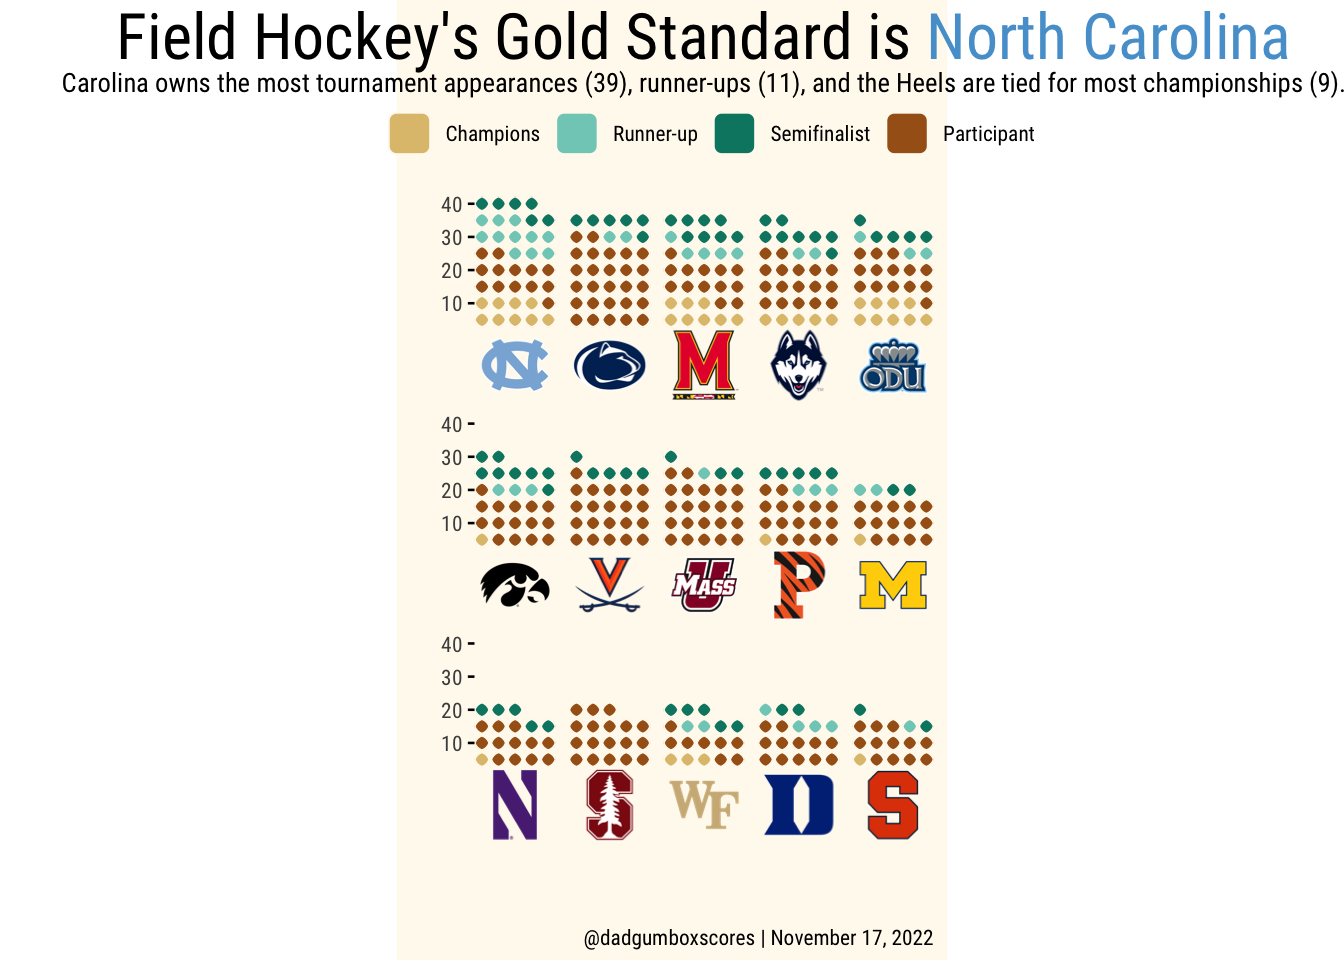
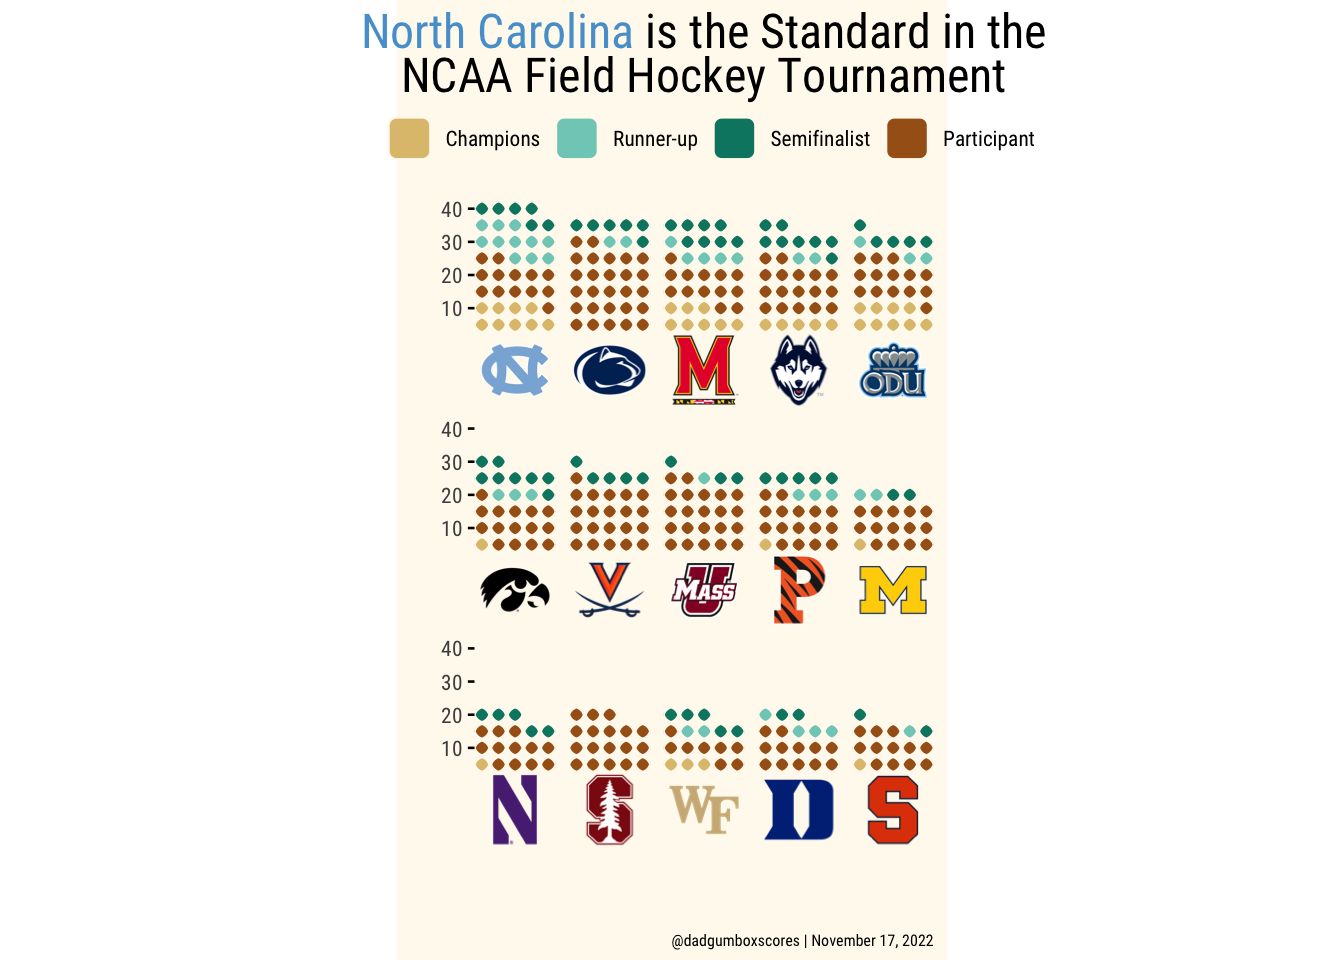
byc-updates

diff --git a/byc_002/byc-002_fh_standard.html b/byc_002/byc-002_fh_standard.html
@@ -190,25 +190,26 @@ dbl  (1): App
 <span id="cb5-4"><a href="#cb5-4" aria-hidden="true" tabindex="-1"></a>    <span class="fu">theme</span> (</span>
 <span id="cb5-5"><a href="#cb5-5" aria-hidden="true" tabindex="-1"></a>      <span class="at">plot.title =</span> <span class="fu">element_text</span>(</span>
 <span id="cb5-6"><a href="#cb5-6" aria-hidden="true" tabindex="-1"></a>        <span class="at">hjust =</span> <span class="fl">0.5</span>,</span>
-<span id="cb5-7"><a href="#cb5-7" aria-hidden="true" tabindex="-1"></a>        <span class="at">size =</span> <span class="dv">24</span>,</span>
-<span id="cb5-8"><a href="#cb5-8" aria-hidden="true" tabindex="-1"></a>        <span class="at">face =</span> <span class="st">"bold"</span></span>
-<span id="cb5-9"><a href="#cb5-9" aria-hidden="true" tabindex="-1"></a>      ),</span>
-<span id="cb5-10"><a href="#cb5-10" aria-hidden="true" tabindex="-1"></a>      <span class="at">plot.subtitle =</span> <span class="fu">element_text</span>(</span>
-<span id="cb5-11"><a href="#cb5-11" aria-hidden="true" tabindex="-1"></a>        <span class="at">hjust =</span> <span class="fl">0.5</span>,</span>
-<span id="cb5-12"><a href="#cb5-12" aria-hidden="true" tabindex="-1"></a>        <span class="at">size =</span> <span class="dv">10</span>,</span>
-<span id="cb5-13"><a href="#cb5-13" aria-hidden="true" tabindex="-1"></a>        <span class="at">lineheight =</span> <span class="fl">0.25</span>,</span>
-<span id="cb5-14"><a href="#cb5-14" aria-hidden="true" tabindex="-1"></a>        <span class="at">vjust =</span> <span class="sc">-</span><span class="fl">0.5</span></span>
-<span id="cb5-15"><a href="#cb5-15" aria-hidden="true" tabindex="-1"></a>      ),</span>
-<span id="cb5-16"><a href="#cb5-16" aria-hidden="true" tabindex="-1"></a>      <span class="at">plot.caption =</span> <span class="fu">element_text</span>(</span>
-<span id="cb5-17"><a href="#cb5-17" aria-hidden="true" tabindex="-1"></a>        <span class="at">hjust =</span> <span class="dv">1</span>,</span>
-<span id="cb5-18"><a href="#cb5-18" aria-hidden="true" tabindex="-1"></a>        <span class="at">size =</span> <span class="dv">8</span>,</span>
-<span id="cb5-19"><a href="#cb5-19" aria-hidden="true" tabindex="-1"></a>        <span class="at">lineheight =</span> <span class="fl">0.35</span>,</span>
-<span id="cb5-20"><a href="#cb5-20" aria-hidden="true" tabindex="-1"></a>        <span class="at">margin =</span> <span class="fu">margin</span>(<span class="at">t =</span> <span class="dv">20</span>)</span>
-<span id="cb5-21"><a href="#cb5-21" aria-hidden="true" tabindex="-1"></a>      ),</span>
-<span id="cb5-22"><a href="#cb5-22" aria-hidden="true" tabindex="-1"></a>      <span class="at">panel.grid.minor =</span> <span class="fu">element_blank</span>(),</span>
-<span id="cb5-23"><a href="#cb5-23" aria-hidden="true" tabindex="-1"></a>      <span class="at">plot.background =</span> <span class="fu">element_rect</span>(<span class="at">fill =</span> <span class="st">"floral white"</span>, <span class="at">color =</span> <span class="st">"floral white"</span>)</span>
-<span id="cb5-24"><a href="#cb5-24" aria-hidden="true" tabindex="-1"></a>    )</span>
-<span id="cb5-25"><a href="#cb5-25" aria-hidden="true" tabindex="-1"></a>}</span></code><button title="Copy to Clipboard" class="code-copy-button"><i class="bi"></i></button></pre></div>
+<span id="cb5-7"><a href="#cb5-7" aria-hidden="true" tabindex="-1"></a>        <span class="at">size =</span> <span class="dv">18</span>,</span>
+<span id="cb5-8"><a href="#cb5-8" aria-hidden="true" tabindex="-1"></a>        <span class="at">face =</span> <span class="st">"bold"</span>,</span>
+<span id="cb5-9"><a href="#cb5-9" aria-hidden="true" tabindex="-1"></a>        <span class="at">lineheight =</span> <span class="fl">0.75</span>,</span>
+<span id="cb5-10"><a href="#cb5-10" aria-hidden="true" tabindex="-1"></a>      ),</span>
+<span id="cb5-11"><a href="#cb5-11" aria-hidden="true" tabindex="-1"></a>      <span class="at">plot.subtitle =</span> <span class="fu">element_text</span>(</span>
+<span id="cb5-12"><a href="#cb5-12" aria-hidden="true" tabindex="-1"></a>        <span class="at">hjust =</span> <span class="fl">0.5</span>,</span>
+<span id="cb5-13"><a href="#cb5-13" aria-hidden="true" tabindex="-1"></a>        <span class="at">size =</span> <span class="dv">10</span>,</span>
+<span id="cb5-14"><a href="#cb5-14" aria-hidden="true" tabindex="-1"></a>        <span class="at">lineheight =</span> <span class="fl">0.25</span>,</span>
+<span id="cb5-15"><a href="#cb5-15" aria-hidden="true" tabindex="-1"></a>        <span class="at">vjust =</span> <span class="sc">-</span><span class="dv">3</span>,</span>
+<span id="cb5-16"><a href="#cb5-16" aria-hidden="true" tabindex="-1"></a>      ),</span>
+<span id="cb5-17"><a href="#cb5-17" aria-hidden="true" tabindex="-1"></a>      <span class="at">plot.caption =</span> <span class="fu">element_text</span>(</span>
+<span id="cb5-18"><a href="#cb5-18" aria-hidden="true" tabindex="-1"></a>        <span class="at">hjust =</span> <span class="dv">1</span>,</span>
+<span id="cb5-19"><a href="#cb5-19" aria-hidden="true" tabindex="-1"></a>        <span class="at">size =</span> <span class="dv">6</span>,</span>
+<span id="cb5-20"><a href="#cb5-20" aria-hidden="true" tabindex="-1"></a>        <span class="at">lineheight =</span> <span class="fl">0.35</span>,</span>
+<span id="cb5-21"><a href="#cb5-21" aria-hidden="true" tabindex="-1"></a>        <span class="at">margin =</span> <span class="fu">margin</span>(<span class="at">t =</span> <span class="dv">20</span>)</span>
+<span id="cb5-22"><a href="#cb5-22" aria-hidden="true" tabindex="-1"></a>      ),</span>
+<span id="cb5-23"><a href="#cb5-23" aria-hidden="true" tabindex="-1"></a>      <span class="at">panel.grid.minor =</span> <span class="fu">element_blank</span>(),</span>
+<span id="cb5-24"><a href="#cb5-24" aria-hidden="true" tabindex="-1"></a>      <span class="at">plot.background =</span> <span class="fu">element_rect</span>(<span class="at">fill =</span> <span class="st">"floral white"</span>, <span class="at">color =</span> <span class="st">"floral white"</span>)</span>
+<span id="cb5-25"><a href="#cb5-25" aria-hidden="true" tabindex="-1"></a>    )</span>
+<span id="cb5-26"><a href="#cb5-26" aria-hidden="true" tabindex="-1"></a>}</span></code><button title="Copy to Clipboard" class="code-copy-button"><i class="bi"></i></button></pre></div>
 </details>
 </div>
 </section>
@@ -220,47 +221,46 @@ dbl  (1): App
 <div class="sourceCode cell-code" id="cb6"><pre class="sourceCode r code-with-copy"><code class="sourceCode r"><span id="cb6-1"><a href="#cb6-1" aria-hidden="true" tabindex="-1"></a><span class="co"># make the plot</span></span>
 <span id="cb6-2"><a href="#cb6-2" aria-hidden="true" tabindex="-1"></a>fh_plot <span class="ot">&lt;-</span> final_counts <span class="sc">%&gt;%</span> </span>
 <span id="cb6-3"><a href="#cb6-3" aria-hidden="true" tabindex="-1"></a>    <span class="fu">ggplot</span>(<span class="fu">aes</span>(<span class="at">fill=</span>finish, <span class="at">values=</span>n)) <span class="sc">+</span> </span>
-<span id="cb6-4"><a href="#cb6-4" aria-hidden="true" tabindex="-1"></a>    <span class="fu">geom_waffle</span>(<span class="at">color =</span> <span class="st">"floral white"</span>, <span class="at">size=</span>.<span class="dv">25</span>, <span class="at">n_rows =</span> <span class="dv">5</span>, <span class="at">flip =</span> <span class="cn">TRUE</span>, <span class="at">use_glyph =</span> <span class="st">"trophy"</span>,</span>
-<span id="cb6-5"><a href="#cb6-5" aria-hidden="true" tabindex="-1"></a>                <span class="at">radius =</span> <span class="fu">unit</span>(<span class="dv">4</span>, <span class="st">"pt"</span>),</span>
-<span id="cb6-6"><a href="#cb6-6" aria-hidden="true" tabindex="-1"></a>                <span class="at">height =</span> <span class="fl">0.9</span>, <span class="at">width =</span> <span class="fl">0.9</span>) <span class="sc">+</span></span>
-<span id="cb6-7"><a href="#cb6-7" aria-hidden="true" tabindex="-1"></a>    <span class="fu">facet_wrap</span>(<span class="sc">~</span>Schools, <span class="at">nrow=</span><span class="dv">3</span>, <span class="at">strip.position =</span> <span class="st">"bottom"</span>) <span class="sc">+</span></span>
-<span id="cb6-8"><a href="#cb6-8" aria-hidden="true" tabindex="-1"></a>    <span class="fu">scale_x_discrete</span>(<span class="at">expand=</span><span class="fu">c</span>(<span class="dv">0</span>,<span class="dv">0</span>)) <span class="sc">+</span></span>
-<span id="cb6-9"><a href="#cb6-9" aria-hidden="true" tabindex="-1"></a>    <span class="fu">scale_y_continuous</span>(<span class="at">labels =</span> <span class="fu">c</span>(<span class="dv">0</span>, <span class="dv">10</span>, <span class="dv">20</span>, <span class="dv">30</span>, <span class="dv">40</span>),</span>
-<span id="cb6-10"><a href="#cb6-10" aria-hidden="true" tabindex="-1"></a>                       <span class="at">expand =</span> <span class="fu">c</span>(<span class="dv">0</span>,<span class="dv">0</span>)) <span class="sc">+</span></span>
-<span id="cb6-11"><a href="#cb6-11" aria-hidden="true" tabindex="-1"></a>    <span class="fu">scale_fill_manual</span>(<span class="st">""</span>,</span>
-<span id="cb6-12"><a href="#cb6-12" aria-hidden="true" tabindex="-1"></a>                      <span class="at">values=</span><span class="fu">c</span>(<span class="st">'Champions'</span><span class="ot">=</span><span class="st">'#dfc27d'</span>,<span class="st">'Runner-up'</span><span class="ot">=</span><span class="st">'#80cdc1'</span>,<span class="st">'Semifinalist'</span><span class="ot">=</span><span class="st">'#018571'</span>,<span class="st">'Participant'</span><span class="ot">=</span><span class="st">'#a6611a'</span>),</span>
-<span id="cb6-13"><a href="#cb6-13" aria-hidden="true" tabindex="-1"></a>                      <span class="at">breaks=</span><span class="fu">c</span>(<span class="st">"Champions"</span>, <span class="st">"Runner-up"</span>, <span class="st">"Semifinalist"</span>, <span class="st">"Participant"</span>),</span>
-<span id="cb6-14"><a href="#cb6-14" aria-hidden="true" tabindex="-1"></a>                      <span class="at">labels=</span><span class="fu">c</span>(<span class="st">"Champions"</span>, <span class="st">"Runner-up"</span>, <span class="st">"Semifinalist"</span>, <span class="st">"Participant"</span>)) <span class="sc">+</span></span>
-<span id="cb6-15"><a href="#cb6-15" aria-hidden="true" tabindex="-1"></a>    <span class="fu">coord_equal</span>() <span class="sc">+</span></span>
-<span id="cb6-16"><a href="#cb6-16" aria-hidden="true" tabindex="-1"></a>    <span class="fu">labs</span>(</span>
-<span id="cb6-17"><a href="#cb6-17" aria-hidden="true" tabindex="-1"></a>        <span class="at">title =</span> <span class="st">"Field Hockey's Gold Standard is &lt;span style='color:#56a0d3;'&gt;North Carolina&lt;/span&gt;"</span>,</span>
-<span id="cb6-18"><a href="#cb6-18" aria-hidden="true" tabindex="-1"></a>        <span class="at">subtitle =</span> <span class="st">"Carolina owns the most tournament appearances (39), runner-ups (11)&lt;/span&gt;, and the Heels are tied for most championships (9)."</span>,</span>
-<span id="cb6-19"><a href="#cb6-19" aria-hidden="true" tabindex="-1"></a>        <span class="at">x =</span> <span class="st">""</span>,</span>
-<span id="cb6-20"><a href="#cb6-20" aria-hidden="true" tabindex="-1"></a>        <span class="at">y =</span> <span class="st">""</span>,</span>
-<span id="cb6-21"><a href="#cb6-21" aria-hidden="true" tabindex="-1"></a>        <span class="at">caption =</span> <span class="st">"@dadgumboxscores | November 17, 2022"</span></span>
-<span id="cb6-22"><a href="#cb6-22" aria-hidden="true" tabindex="-1"></a>    ) <span class="sc">+</span></span>
-<span id="cb6-23"><a href="#cb6-23" aria-hidden="true" tabindex="-1"></a>    <span class="fu">theme_me</span>() <span class="sc">+</span></span>
-<span id="cb6-24"><a href="#cb6-24" aria-hidden="true" tabindex="-1"></a>    <span class="fu">theme</span>(<span class="at">panel.grid =</span> <span class="fu">element_blank</span>(),</span>
-<span id="cb6-25"><a href="#cb6-25" aria-hidden="true" tabindex="-1"></a>          <span class="at">axis.ticks.y =</span> <span class="fu">element_line</span>()) <span class="sc">+</span></span>
-<span id="cb6-26"><a href="#cb6-26" aria-hidden="true" tabindex="-1"></a>    <span class="fu">guides</span>(<span class="at">fill =</span> <span class="fu">guide_legend</span>()) <span class="sc">+</span></span>
-<span id="cb6-27"><a href="#cb6-27" aria-hidden="true" tabindex="-1"></a>    <span class="fu">theme</span>(<span class="at">legend.position =</span> <span class="st">"top"</span>, <span class="at">strip.text =</span> <span class="fu">element_cfb_logo</span>(<span class="at">size =</span> <span class="dv">1</span>), <span class="at">plot.title =</span> <span class="fu">element_markdown</span>(), <span class="at">plot.subtitle =</span> <span class="fu">element_markdown</span>())</span>
-<span id="cb6-28"><a href="#cb6-28" aria-hidden="true" tabindex="-1"></a></span>
-<span id="cb6-29"><a href="#cb6-29" aria-hidden="true" tabindex="-1"></a><span class="co"># save image of plot</span></span>
-<span id="cb6-30"><a href="#cb6-30" aria-hidden="true" tabindex="-1"></a>  <span class="fu">ggsave</span>(</span>
-<span id="cb6-31"><a href="#cb6-31" aria-hidden="true" tabindex="-1"></a>  <span class="st">"fh.png"</span>,</span>
-<span id="cb6-32"><a href="#cb6-32" aria-hidden="true" tabindex="-1"></a>  fh_plot,</span>
-<span id="cb6-33"><a href="#cb6-33" aria-hidden="true" tabindex="-1"></a>  <span class="at">w =</span> <span class="fl">9.5</span>,</span>
-<span id="cb6-34"><a href="#cb6-34" aria-hidden="true" tabindex="-1"></a>  <span class="at">h =</span> <span class="fl">9.5</span>,</span>
-<span id="cb6-35"><a href="#cb6-35" aria-hidden="true" tabindex="-1"></a>  <span class="at">dpi =</span> <span class="dv">300</span>,</span>
-<span id="cb6-36"><a href="#cb6-36" aria-hidden="true" tabindex="-1"></a>  <span class="at">type =</span> <span class="st">'cairo'</span></span>
-<span id="cb6-37"><a href="#cb6-37" aria-hidden="true" tabindex="-1"></a>)</span>
-<span id="cb6-38"><a href="#cb6-38" aria-hidden="true" tabindex="-1"></a>  </span>
-<span id="cb6-39"><a href="#cb6-39" aria-hidden="true" tabindex="-1"></a>fh_plot</span></code><button title="Copy to Clipboard" class="code-copy-button"><i class="bi"></i></button></pre></div>
+<span id="cb6-4"><a href="#cb6-4" aria-hidden="true" tabindex="-1"></a>    <span class="fu">geom_waffle</span>(<span class="at">color =</span> <span class="st">"floral white"</span>, <span class="at">size=</span>.<span class="dv">25</span>, <span class="at">n_rows =</span> <span class="dv">5</span>, <span class="at">flip =</span> <span class="cn">TRUE</span>,  <span class="at">radius =</span> <span class="fu">unit</span>(<span class="dv">4</span>, <span class="st">"pt"</span>), <span class="at">height =</span> <span class="fl">0.9</span>, <span class="at">width =</span> <span class="fl">0.9</span>) <span class="sc">+</span></span>
+<span id="cb6-5"><a href="#cb6-5" aria-hidden="true" tabindex="-1"></a>    <span class="fu">facet_wrap</span>(<span class="sc">~</span>Schools, <span class="at">nrow=</span><span class="dv">3</span>, <span class="at">strip.position =</span> <span class="st">"bottom"</span>) <span class="sc">+</span></span>
+<span id="cb6-6"><a href="#cb6-6" aria-hidden="true" tabindex="-1"></a>    <span class="fu">scale_x_discrete</span>(<span class="at">expand=</span><span class="fu">c</span>(<span class="dv">0</span>,<span class="dv">0</span>)) <span class="sc">+</span></span>
+<span id="cb6-7"><a href="#cb6-7" aria-hidden="true" tabindex="-1"></a>    <span class="fu">scale_y_continuous</span>(<span class="at">labels =</span> <span class="fu">c</span>(<span class="dv">0</span>, <span class="dv">10</span>, <span class="dv">20</span>, <span class="dv">30</span>, <span class="dv">40</span>),</span>
+<span id="cb6-8"><a href="#cb6-8" aria-hidden="true" tabindex="-1"></a>                       <span class="at">expand =</span> <span class="fu">c</span>(<span class="dv">0</span>,<span class="dv">0</span>)) <span class="sc">+</span></span>
+<span id="cb6-9"><a href="#cb6-9" aria-hidden="true" tabindex="-1"></a>    <span class="fu">scale_fill_manual</span>(<span class="st">""</span>,</span>
+<span id="cb6-10"><a href="#cb6-10" aria-hidden="true" tabindex="-1"></a>                      <span class="at">values=</span><span class="fu">c</span>(<span class="st">'Champions'</span><span class="ot">=</span><span class="st">'#dfc27d'</span>,<span class="st">'Runner-up'</span><span class="ot">=</span><span class="st">'#80cdc1'</span>,<span class="st">'Semifinalist'</span><span class="ot">=</span><span class="st">'#018571'</span>,<span class="st">'Participant'</span><span class="ot">=</span><span class="st">'#a6611a'</span>),</span>
+<span id="cb6-11"><a href="#cb6-11" aria-hidden="true" tabindex="-1"></a>                      <span class="at">breaks=</span><span class="fu">c</span>(<span class="st">"Champions"</span>, <span class="st">"Runner-up"</span>, <span class="st">"Semifinalist"</span>, <span class="st">"Participant"</span>),</span>
+<span id="cb6-12"><a href="#cb6-12" aria-hidden="true" tabindex="-1"></a>                      <span class="at">labels=</span><span class="fu">c</span>(<span class="st">"Champions"</span>, <span class="st">"Runner-up"</span>, <span class="st">"Semifinalist"</span>, <span class="st">"Participant"</span>)) <span class="sc">+</span></span>
+<span id="cb6-13"><a href="#cb6-13" aria-hidden="true" tabindex="-1"></a>    <span class="fu">coord_equal</span>() <span class="sc">+</span></span>
+<span id="cb6-14"><a href="#cb6-14" aria-hidden="true" tabindex="-1"></a>    <span class="fu">labs</span>(</span>
+<span id="cb6-15"><a href="#cb6-15" aria-hidden="true" tabindex="-1"></a>        <span class="at">title =</span> <span class="st">"&lt;span style='color:#56a0d3;'&gt;North Carolina&lt;/span&gt; is the Standard in the  </span><span class="sc">\n</span><span class="st">NCAA Field Hockey Tournament"</span>,</span>
+<span id="cb6-16"><a href="#cb6-16" aria-hidden="true" tabindex="-1"></a>        <span class="at">x =</span> <span class="st">""</span>,</span>
+<span id="cb6-17"><a href="#cb6-17" aria-hidden="true" tabindex="-1"></a>        <span class="at">y =</span> <span class="st">""</span>,</span>
+<span id="cb6-18"><a href="#cb6-18" aria-hidden="true" tabindex="-1"></a>        <span class="at">caption =</span> <span class="st">"@dadgumboxscores | November 17, 2022"</span></span>
+<span id="cb6-19"><a href="#cb6-19" aria-hidden="true" tabindex="-1"></a>    ) <span class="sc">+</span></span>
+<span id="cb6-20"><a href="#cb6-20" aria-hidden="true" tabindex="-1"></a>    <span class="fu">theme_me</span>() <span class="sc">+</span></span>
+<span id="cb6-21"><a href="#cb6-21" aria-hidden="true" tabindex="-1"></a>    <span class="fu">theme</span>(<span class="at">panel.grid =</span> <span class="fu">element_blank</span>(),</span>
+<span id="cb6-22"><a href="#cb6-22" aria-hidden="true" tabindex="-1"></a>          <span class="at">axis.ticks.y =</span> <span class="fu">element_line</span>()) <span class="sc">+</span></span>
+<span id="cb6-23"><a href="#cb6-23" aria-hidden="true" tabindex="-1"></a>    <span class="fu">guides</span>(<span class="at">fill =</span> <span class="fu">guide_legend</span>()) <span class="sc">+</span></span>
+<span id="cb6-24"><a href="#cb6-24" aria-hidden="true" tabindex="-1"></a>    <span class="fu">theme</span>(<span class="at">legend.position =</span> <span class="st">"top"</span>,  <span class="at">strip.text =</span> <span class="fu">element_cfb_logo</span>(<span class="at">size =</span> <span class="dv">1</span>), <span class="at">plot.title =</span> <span class="fu">element_markdown</span>(), <span class="at">plot.subtitle =</span> <span class="fu">element_markdown</span>())</span>
+<span id="cb6-25"><a href="#cb6-25" aria-hidden="true" tabindex="-1"></a></span>
+<span id="cb6-26"><a href="#cb6-26" aria-hidden="true" tabindex="-1"></a><span class="co"># save image of plot</span></span>
+<span id="cb6-27"><a href="#cb6-27" aria-hidden="true" tabindex="-1"></a>  <span class="fu">ggsave</span>(</span>
+<span id="cb6-28"><a href="#cb6-28" aria-hidden="true" tabindex="-1"></a>  <span class="st">"fh.png"</span>,</span>
+<span id="cb6-29"><a href="#cb6-29" aria-hidden="true" tabindex="-1"></a>  fh_plot,</span>
+<span id="cb6-30"><a href="#cb6-30" aria-hidden="true" tabindex="-1"></a>  <span class="at">w =</span> <span class="dv">7</span>,</span>
+<span id="cb6-31"><a href="#cb6-31" aria-hidden="true" tabindex="-1"></a>  <span class="at">h =</span> <span class="dv">7</span>,</span>
+<span id="cb6-32"><a href="#cb6-32" aria-hidden="true" tabindex="-1"></a>  <span class="at">dpi =</span> <span class="dv">300</span>,</span>
+<span id="cb6-33"><a href="#cb6-33" aria-hidden="true" tabindex="-1"></a>  <span class="at">type =</span> <span class="st">'cairo'</span></span>
+<span id="cb6-34"><a href="#cb6-34" aria-hidden="true" tabindex="-1"></a>)</span>
+<span id="cb6-35"><a href="#cb6-35" aria-hidden="true" tabindex="-1"></a>  </span>
+<span id="cb6-36"><a href="#cb6-36" aria-hidden="true" tabindex="-1"></a>fh_plot</span></code><button title="Copy to Clipboard" class="code-copy-button"><i class="bi"></i></button></pre></div>
 </details>
 <div class="cell-output-display">
 <p><img src="byc-002_fh_standard_files/figure-html/make-the-plot-1.png" class="img-fluid" width="672"></p>
 </div>
 </div>
+<p><br>
+</p>
 </section>
 
 </main>
